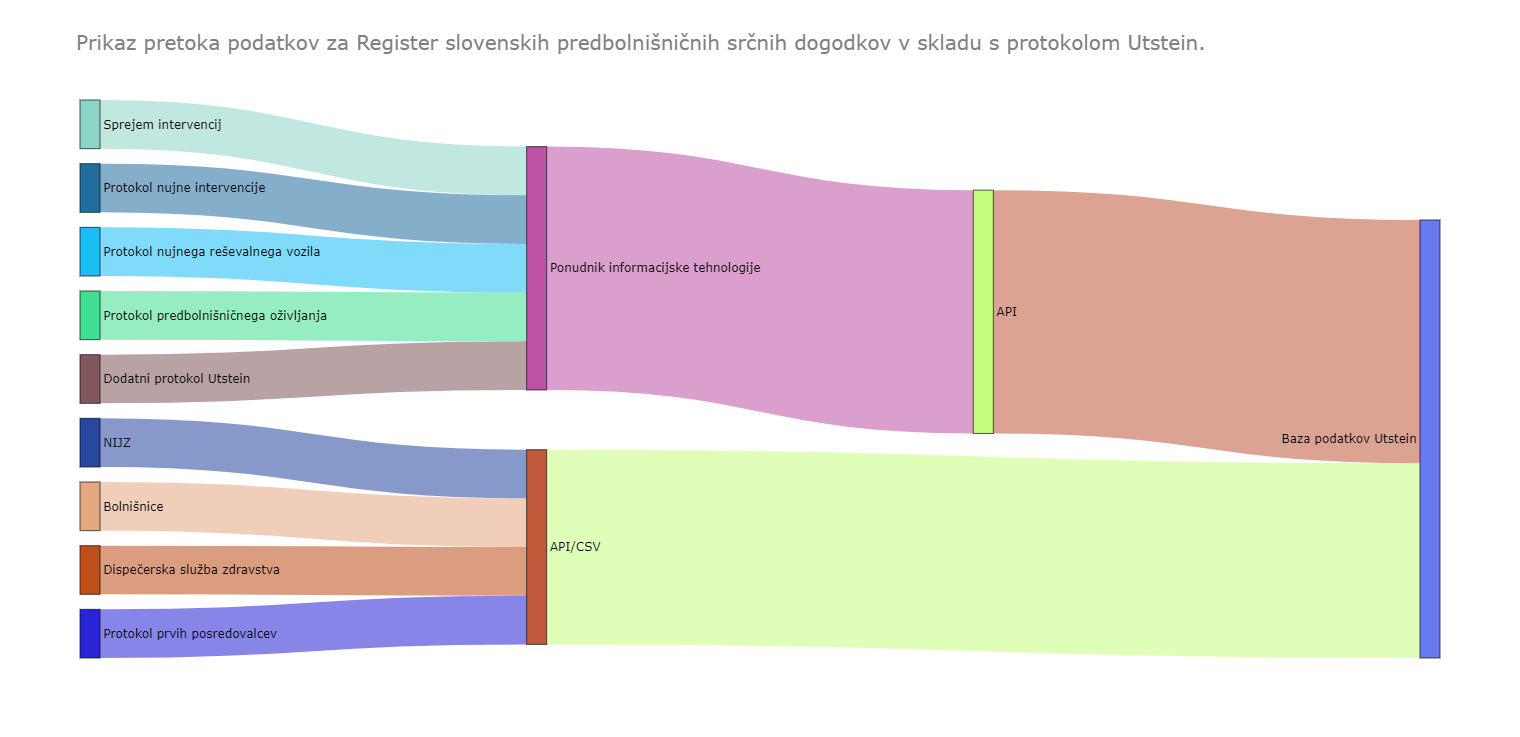
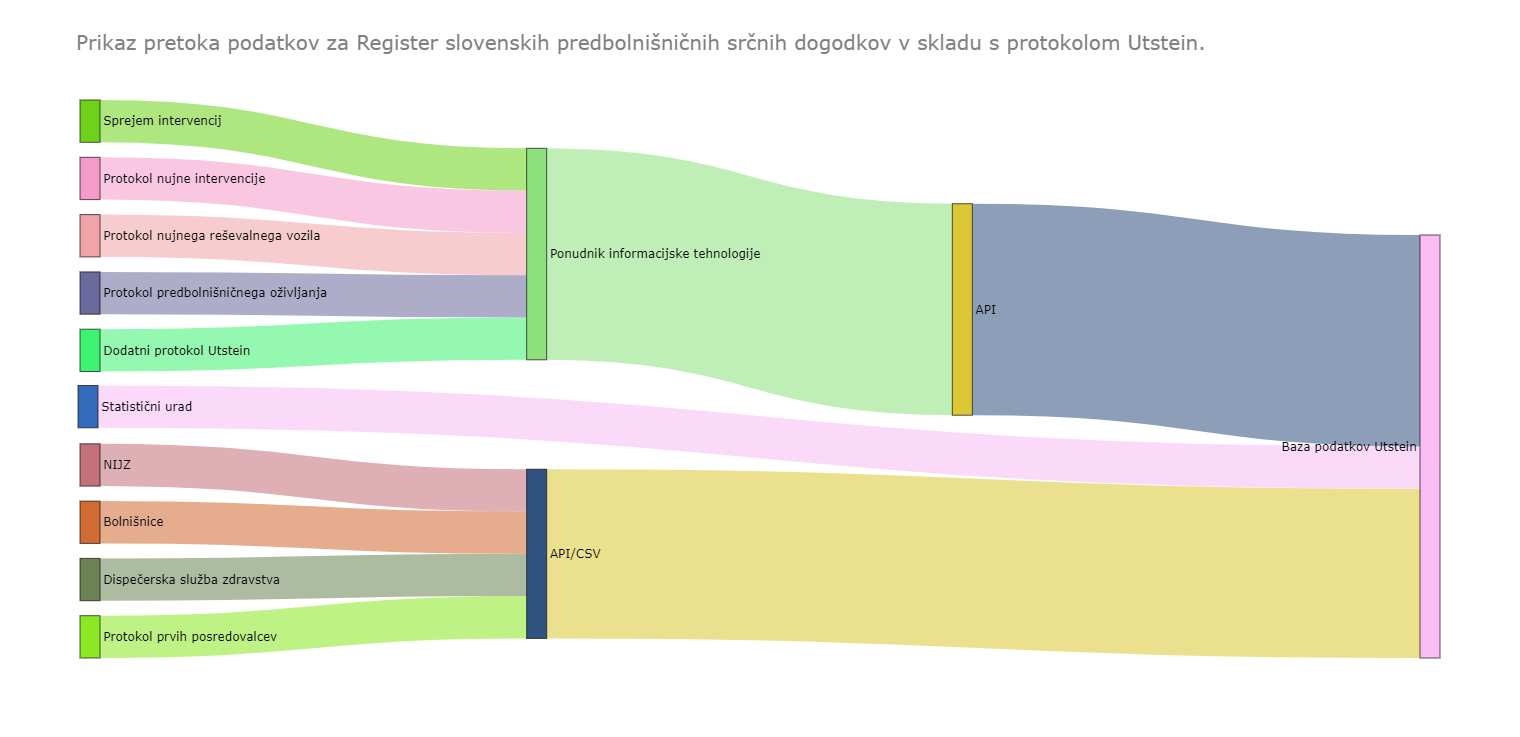
Updated data flow diagram

diff --git a/data/main_data_flow.py b/data/main_data_flow.py
@@ -5,20 +5,21 @@ import random
 # Uncomment the names you want the diagram to show
 
 # Names in english
-si = "Emergency call admission" #"sprejem intervencij"
-pni = "Emergency intervention report"  #"poročilo/protokol nujne intervencije"
-pnrv = "Emergency protocol of the out-of-hospital EMS" # "protokol nujnega reševalnega vozila"
-ppo = "Out-of-hospital CPR" #"predbolnišnično oživljanje"
-utst = "Supplementary Utstein protocol"
-nijz = "National Institute of Public Health" #"NIJZ (v primeru smrti)"
-hosp = "Hospitals" # Večinoma v obliki protokola triaže,statusa/anamneze/rezultatov diagnostike in odpustnice
-disp = "Dispatch service"
-ppp = "First responders"
-comp = "IT system provider" #"Computel"
-api = "API"
-api_csv = "API/CSV"
-db = "Utstein database"
-title_text = "Representation of data flow for the Slovenian OHCA registry based on the Utstein protocol."
+# sta = "Statistical Office"
+# si = "Emergency call admission" #"sprejem intervencij"
+# pni = "Emergency intervention report"  #"poročilo/protokol nujne intervencije"
+# pnrv = "Emergency protocol of the out-of-hospital EMS" # "protokol nujnega reševalnega vozila"
+# ppo = "Out-of-hospital CPR" #"predbolnišnično oživljanje"
+# utst = "Supplementary Utstein protocol"
+# nijz = "National Institute of Public Health" #"NIJZ (v primeru smrti)"
+# hosp = "Hospitals" # Večinoma v obliki protokola triaže,statusa/anamneze/rezultatov diagnostike in odpustnice
+# disp = "Dispatch service"
+# ppp = "First responders"
+# comp = "IT system provider" #"Computel"
+# api = "API"
+# api_csv = "API/CSV"
+# db = "Utstein database"
+# title_text = "Representation of data flow for the Slovenian OHCA registry based on the Utstein protocol."
 
 
 # Names in Slovene
@@ -32,6 +33,7 @@ hosp = "Bolnišnice" # Večinoma v obliki protokola triaže,statusa/anamneze/rez
 disp = "Dispečerska služba zdravstva"
 ppp = "Protokol prvih posredovalcev"
 comp = "Ponudnik informacijske tehnologije" #"Computel"
+sta = "Statistični urad"
 api = "API"
 api_csv = "API/CSV"
 db = "Baza podatkov Utstein"
@@ -45,7 +47,7 @@ def random_color_generator():
     return [r, g, b]
 
 colors, colors_conn = [], []
-for i in range(20):
+for i in range(25):
     [r, g, b] = random_color_generator()
     colors.append("rgba(" + str(r) + "," + str(g) + "," + str(b) + "," + str(0.9) + ")")
     colors_conn.append("rgba(" + str(r) + "," + str(g) + "," + str(b) + "," + str(0.5) + ")")
@@ -58,6 +60,8 @@ for elt in elements:
     labels[elt] = counter
     counter += 1
 
+labels[sta] = counter
+
 protocols, rest = [si, pni, pnrv, ppo, utst], [nijz, hosp, disp, ppp]
 connections = dict()
 for protocol in protocols:
@@ -67,7 +71,7 @@ for elt in rest:
 connections[(labels[comp], labels[api])] = len(protocols)
 connections[(labels[api_csv], labels[db])] = len(rest)
 connections[(labels[api], labels[db])] = len(protocols)
-
+connections[(labels[sta], labels[db])] = 1
 
 label = list(labels.keys())
 sources, targets, values = [], [], []

diff --git a/README.md b/README.md
@@ -26,7 +26,7 @@ You can access the complete consensus article [here](https://www.ahajournals.org
 
 Data flow is for only in Slovenian for now.
 
-![data_flow_en2](https://user-images.githubusercontent.com/42324122/159179750-65370784-fbf8-45b7-9002-d357336e8d22.png)
+![data_flow_en](https://user-images.githubusercontent.com/42324122/160936152-6cb3873f-d992-4c0f-8fb2-0b7e58ae3ae3.png)
 
 
 ## Funding
